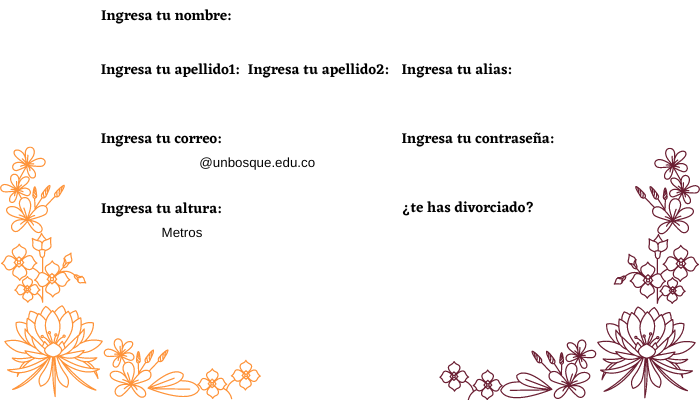
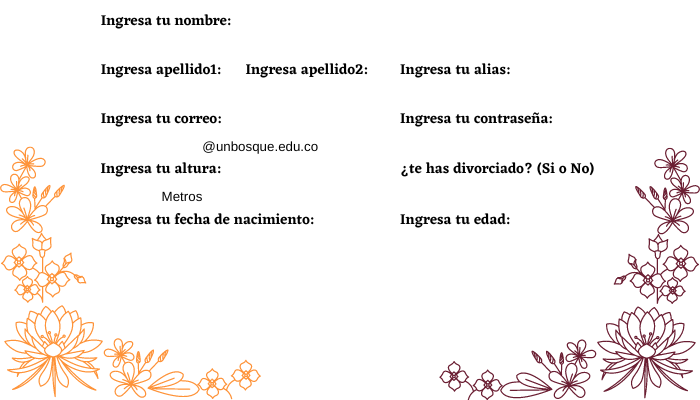
2/12/22/1:03/ Se actualiza VentanaRegistroHombre y mujer

diff --git a/PRF_PGR1_202202_VelozaJuan_RiañoFerddy_BullaDaniel_QuintanaSebastian/src/co/edu/unbosque/view/VentanaRegistroHombre.java b/PRF_PGR1_202202_VelozaJuan_RiañoFerddy_BullaDaniel_QuintanaSebastian/src/co/edu/unbosque/view/VentanaRegistroHombre.java
@@ -32,27 +32,27 @@ public class VentanaRegistroHombre extends JFrame  {
 		txtapellido2 = new JTextField();
 		txtapellido2.setBounds(245, 80, 100, 25);
 		txtcorreo = new JTextField();
-		txtcorreo.setBounds(100, 150, 100, 25);
+		txtcorreo.setBounds(100, 130, 100, 25);
 		txtusuario = new JTextField();
 		txtusuario.setBounds(400, 80, 200, 25);
 		txtcontraseña = new JTextField();
-		txtcontraseña.setBounds(400, 150 , 200, 25);
+		txtcontraseña.setBounds(400, 130 , 200, 25);
 		txtestatura = new JTextField();
-		txtestatura.setBounds(100, 220, 60, 25);
+		txtestatura.setBounds(100, 180, 60, 25);
 		txtingresos = new JTextField();
-		txtingresos.setBounds(400, 220 , 200, 25);
+		txtingresos.setBounds(400, 180, 200, 25);
 		txtdnacimiento = new JTextField();
-		txtdnacimiento.setBounds(100, 275, 20, 25);
+		txtdnacimiento.setBounds(100, 230, 20, 25);
 		sm = new JLabel("/");
-		sm.setBounds(125, 275, 3, 25);
+		sm.setBounds(125, 230, 3, 25);
 		txtmnacimiento = new JTextField();
-		txtmnacimiento.setBounds(132, 275, 20, 25);
+		txtmnacimiento.setBounds(132, 230, 20, 25);
 		sa = new JLabel("/");
-		sa.setBounds(157, 275, 3, 25);
+		sa.setBounds(157, 230, 3, 25);
 		txtanacimiento = new JTextField();
-		txtanacimiento.setBounds(165, 275, 40, 25);
+		txtanacimiento.setBounds(165, 230, 40, 25);
 		txtedad = new JTextField();
-		txtedad.setBounds(400, 275, 100, 25);
+		txtedad.setBounds(400, 230, 100, 25);
 		registrateh = new JButton("Registrate");
 		ImageIcon imag2 = new ImageIcon(getClass().getResource("/Imagenes/BotonRegistrate.png"));
 		ImageIcon icono2 = new ImageIcon(imag2.getImage().getScaledInstance(210, 40, Image.SCALE_DEFAULT));

diff --git a/PRF_PGR1_202202_VelozaJuan_RiañoFerddy_BullaDaniel_QuintanaSebastian/src/co/edu/unbosque/view/VentanaRegistroMujer.java b/PRF_PGR1_202202_VelozaJuan_RiañoFerddy_BullaDaniel_QuintanaSebastian/src/co/edu/unbosque/view/VentanaRegistroMujer.java
@@ -36,36 +36,36 @@ public class VentanaRegistroMujer extends JFrame  {
 		txtapellido2.setBounds(245, 80, 100, 25);
 		
 		txtcorreo = new JTextField();
-		txtcorreo.setBounds(100, 150, 100, 25);
+		txtcorreo.setBounds(100, 130, 100, 25);
 		
 		txtusuario = new JTextField();
 		txtusuario.setBounds(400, 80, 200, 25);
 		
 		txtcontraseña = new JTextField();
-		txtcontraseña.setBounds(400, 150 , 200, 25);
+		txtcontraseña.setBounds(400, 130 , 200, 25);
 		
 		txtestatura = new JTextField();
-		txtestatura.setBounds(100, 220, 60, 25);
+		txtestatura.setBounds(100, 180, 60, 25);
 		
 		txtdivorcio = new JTextField();
-		txtdivorcio.setBounds(400, 220 , 200, 25);
+		txtdivorcio.setBounds(400, 180, 50, 25);
 		
 		txtdnacimiento = new JTextField();
-		txtdnacimiento.setBounds(100, 275, 20, 25);
+		txtdnacimiento.setBounds(100, 230, 20, 25);
 		
 		sm = new JLabel("/");
-		sm.setBounds(125, 275, 3, 25);
+		sm.setBounds(125, 230, 3, 25);
 		
 		txtmnacimiento = new JTextField();
-		txtmnacimiento.setBounds(132, 275, 20, 25);
+		txtmnacimiento.setBounds(132, 230, 20, 25);
 		
 		sa = new JLabel("/");
-		sa.setBounds(157, 275, 3, 25);
+		sa.setBounds(157, 230, 3, 25);
 		txtanacimiento = new JTextField();
-		txtanacimiento.setBounds(165, 275, 40, 25);
+		txtanacimiento.setBounds(165, 230, 40, 25);
 		
 		txtedad = new JTextField();
-		txtedad.setBounds(400, 275, 100, 25);
+		txtedad.setBounds(400, 230, 100, 25);
 		
 		registratem = new JButton("Registrate");
 		ImageIcon imag2 = new ImageIcon(getClass().getResource("/Imagenes/BotonRegistrate.png"));
